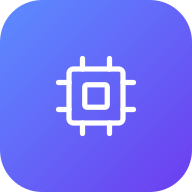
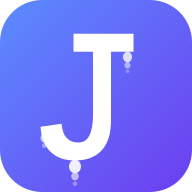
Add to Home Screen

Changed region(s): [[0.1875, 0.1562, 0.7188, 0.9688]]

diff --git a/index.html b/index.html
@@ -24,12 +24,11 @@
   html, body { margin: 0; padding: 0; height: 100%; }
   body {
     font-family: -apple-system, "SF Pro Display", "SF Pro Text", system-ui, sans-serif;
-    background: #050507;
-    background-image: radial-gradient(1200px 800px at 50% -10%, rgba(var(--accent-rgb), 0.10), transparent 60%);
-    display: flex; align-items: center; justify-content: center;
-    min-height: 100vh; overflow: hidden;
+    background: #0a0b10;
+    margin: 0; padding: 0;
+    min-height: 100vh; min-height: 100dvh; overflow: hidden;
   }
-  #root { width: 100%; height: 100vh; display: flex; align-items: center; justify-content: center; }
+  #root { width: 100%; height: 100vh; height: 100dvh; }
 
   .device[data-theme="dark"] {
     --bg: #0a0b10;
@@ -71,41 +70,19 @@
   .device { --ok: #34d399; --ok-soft: rgba(52,211,153,0.16); --warn: #fbbf24; --warn-soft: rgba(251,191,36,0.16);
             --err: #fb6f70; --err-soft: rgba(251,111,112,0.16); --info: var(--accent); --purple: #a779ff; --cyan: #3dd9c9; }
 
-  .stage { width: 100%; height: 100vh; display: flex; align-items: center; justify-content: center; }
-  .bezel {
-    position: relative; border-radius: 56px; padding: 13px;
-    background: linear-gradient(160deg, #2a2c34, #0c0d11 60%);
-    box-shadow: 0 50px 100px rgba(0,0,0,0.6), 0 0 0 1px rgba(255,255,255,0.06), inset 0 0 0 1.5px rgba(255,255,255,0.05);
-  }
   .device {
-    position: relative; width: 390px; height: 844px; border-radius: 44px; overflow: hidden;
+    position: relative; width: 100%; height: 100vh; height: 100dvh; overflow: hidden;
     background: var(--bg);
-    background-image: radial-gradient(900px 540px at 50% -8%, var(--bg-grad-1), transparent 55%),
-                      radial-gradient(700px 520px at 100% 8%, var(--bg-grad-2), transparent 50%);
     color: var(--text);
     display: flex; flex-direction: column;
     transition: background-color .4s ease, color .3s ease;
+    padding-top: env(safe-area-inset-top, 0px);
   }
-  .island {
-    position: absolute; top: 11px; left: 50%; transform: translateX(-50%);
-    width: 120px; height: 35px; border-radius: 20px; background: #000; z-index: 200;
-  }
-
-  .statusbar {
-    height: 54px; flex-shrink: 0; display: flex; align-items: center; justify-content: space-between;
-    padding: 0 30px 0 34px; position: relative; z-index: 150; pointer-events: none;
-  }
-  .statusbar .time { font-size: 15px; font-weight: 640; letter-spacing: 0.2px; color: var(--statusbar); padding-top: 8px; }
-  .statusbar .glyphs { display: flex; align-items: center; gap: 7px; padding-top: 8px; }
-  .statusbar svg path, .statusbar svg rect { fill: var(--statusbar); }
 
   .screen { flex: 1; min-height: 0; overflow-y: auto; overflow-x: hidden; position: relative; -webkit-overflow-scrolling: touch; }
   .screen::-webkit-scrollbar { width: 0; display: none; }
   .pad { padding: 0 18px; }
-  .pad-b { padding-bottom: 116px; }
-
-  .home-ind { position: absolute; bottom: 8px; left: 50%; transform: translateX(-50%); width: 134px; height: 5px;
-    border-radius: 100px; background: var(--text); opacity: 0.32; z-index: 250; pointer-events: none; }
+  .pad-b { padding-bottom: calc(100px + env(safe-area-inset-bottom, 0px)); }
 
   .glass { background: var(--surface); backdrop-filter: blur(var(--glass-blur)) saturate(160%);
     -webkit-backdrop-filter: blur(var(--glass-blur)) saturate(160%); border: 1px solid var(--border); }
@@ -368,7 +345,7 @@ function Btn({ children, onClick, variant = "primary", icon, full, size = "md", 
   const base = { display: "flex", alignItems: "center", justifyContent: "center", gap: 8, padding: pad, fontSize: fs, fontWeight: 640,
     borderRadius: 15, width: full ? "100%" : undefined, letterSpacing: -0.1, opacity: disabled ? 0.5 : 1, ...style };
   const variants = {
-    primary: { background: "var(--accent)", color: "#fff", boxShadow: "0 8px 22px rgba(var(--accent-rgb),0.34)" },
+    primary: { background: "var(--accent)", color: "#fff" },
     solid: { background: "var(--text)", color: "var(--bg)" },
     glass: { background: "var(--surface-2)", color: "var(--text)", border: "1px solid var(--border)" },
     ghost: { background: "transparent", color: "var(--text-dim)" },
@@ -520,8 +497,8 @@ function Field({ icon, label, value, onChange, type = "text", placeholder, right
 function Logo({ size = 60 }) {
   return (
     <div style={{ width: size, height: size, borderRadius: size * 0.3, background: "linear-gradient(150deg,#5b8cff,#6d3df0)", display: "flex", alignItems: "center", justifyContent: "center",
-      boxShadow: "0 14px 40px rgba(91,140,255,0.45), inset 0 0 0 1px rgba(255,255,255,0.2)", position: "relative" }}>
-      <Icon name="chip" size={size * 0.5} stroke={1.8} style={{ color: "#fff" }} />
+      position: "relative" }}>
+      <span style={{ color: "#fff", fontSize: size * 0.52, fontWeight: 800, letterSpacing: -1, lineHeight: 1 }}>J</span>
     </div>
   );
 }
@@ -1099,7 +1076,7 @@ function AgentChat({ nav }) {
           );
           if (m.from === "user") return (
             <div key={m.id} style={{ display: "flex", justifyContent: "flex-end", marginBottom: 14 }}>
-              <div style={{ maxWidth: "78%", background: "var(--accent)", color: "#fff", padding: "11px 14px", borderRadius: "16px 16px 4px 16px", fontSize: 14, lineHeight: 1.45, boxShadow: "0 4px 14px rgba(var(--accent-rgb),0.3)" }}>{m.text}</div>
+              <div style={{ maxWidth: "78%", background: "var(--accent)", color: "#fff", padding: "11px 14px", borderRadius: "16px 16px 4px 16px", fontSize: 14, lineHeight: 1.45, }}>{m.text}</div>
             </div>
           );
           return (
@@ -1132,7 +1109,7 @@ function AgentChat({ nav }) {
         <div className="glass" style={{ display: "flex", alignItems: "center", gap: 8, padding: "6px 6px 6px 16px", borderRadius: 24 }}>
           <input placeholder={`Message ${a.name}…`} style={{ flex: 1, background: "none", border: "none", outline: "none", color: "var(--text)", fontSize: 14.5, fontFamily: "inherit" }} />
           <button className="tap" style={{ width: 36, height: 36, borderRadius: 36, display: "flex", alignItems: "center", justifyContent: "center", color: "var(--text-dim)" }}><Icon name="mic" size={19} /></button>
-          <button className="tap" style={{ width: 38, height: 38, borderRadius: 38, background: "var(--accent)", color: "#fff", display: "flex", alignItems: "center", justifyContent: "center", boxShadow: "0 4px 12px rgba(var(--accent-rgb),0.4)" }}><Icon name="send" size={18} /></button>
+          <button className="tap" style={{ width: 38, height: 38, borderRadius: 38, background: "var(--accent)", color: "#fff", display: "flex", alignItems: "center", justifyContent: "center", }}><Icon name="send" size={18} /></button>
         </div>
       </div>
       <Sheet open={sheet === "controls"} onClose={() => setSheet(null)} title="Agent controls">
@@ -1761,8 +1738,8 @@ function renderOverlay(screen, nav) {
 
 function BottomNav({ tab, onTab }) {
   return (
-    <div style={{ position: "absolute", bottom: 0, left: 0, right: 0, zIndex: 100, padding: "0 12px 22px" }}>
-      <div className="glass" style={{ display: "flex", borderRadius: 26, padding: "9px 6px 8px", boxShadow: "var(--shadow)" }}>
+    <div style={{ position: "absolute", bottom: 0, left: 0, right: 0, zIndex: 100, padding: "0 12px calc(10px + env(safe-area-inset-bottom, 12px))" }}>
+      <div className="glass" style={{ display: "flex", borderRadius: 26, padding: "9px 6px 8px" }}>
         {TABS.map(t => {
           const on = tab === t.id;
           return (
@@ -1787,7 +1764,6 @@ function App() {
   const [dark, setDark] = useState(() => { try { const s = localStorage.getItem("ac_dark"); return s === null ? true : s === "1"; } catch { return true; } });
   const applyDark = (v) => { setDark(v); try { localStorage.setItem("ac_dark", v ? "1" : "0"); } catch {} };
   const deviceRef = useRef(null);
-  const [scale, setScale] = useState(1);
   const [accent, setAccent] = useState("#5b8cff");
 
   useEffect(() => { localStorage.setItem("ac_nav", JSON.stringify({ mode, tab })); }, [mode, tab]);
@@ -1799,15 +1775,6 @@ function App() {
     document.documentElement.style.setProperty("--accent", accent);
     document.documentElement.style.setProperty("--accent-rgb", hexToRgb(accent));
   }, [accent, mode, tab, stack]);
-
-  useEffect(() => {
-    const fit = () => {
-      const bw = 416, bh = 870;
-      const s = Math.min(1, (window.innerWidth - 24) / bw, (window.innerHeight - 24) / bh);
-      setScale(s);
-    };
-    fit(); window.addEventListener("resize", fit); return () => window.removeEventListener("resize", fit);
-  }, []);
 
   const theme = dark ? "dark" : "light";
   const setTheme = m => applyDark(m === "dark");
@@ -1833,29 +1800,20 @@ function App() {
   const overlay = stack.length ? stack[stack.length - 1] : null;
 
   return (
-    <div className="stage">
-      <div className="bezel" style={{ transform: `scale(${scale})` }}>
-        <div className="device" data-theme={theme} ref={deviceRef}>
-          <div className="island" />
-          <StatusBar />
-
-          {mode === "login" && <LoginScreen nav={nav} />}
-          {mode === "onboarding" && <OnboardingScreen nav={nav} />}
-          {mode === "app" && <>
-            <div style={{ position: "absolute", inset: 0, top: 54, display: stack.length ? "none" : "flex", flexDirection: "column" }}>
-              {tab === "settings" ? <Settings nav={nav} theme={theme} setTheme={setTheme} /> : <TabScreen nav={nav} />}
-            </div>
-            {overlay && (
-              <div key={stack.length} style={{ position: "absolute", inset: 0, top: 54, background: "var(--bg)", backgroundImage: "radial-gradient(900px 540px at 50% -8%, var(--bg-grad-1), transparent 55%)", display: "flex", flexDirection: "column", zIndex: 60 }}>
-                {renderOverlay(overlay.screen, nav)}
-              </div>
-            )}
-            {!stack.length && <BottomNav tab={tab} onTab={nav.go} />}
-          </>}
-
-          <div className="home-ind" />
+    <div className="device" data-theme={theme} ref={deviceRef}>
+      {mode === "login" && <LoginScreen nav={nav} />}
+      {mode === "onboarding" && <OnboardingScreen nav={nav} />}
+      {mode === "app" && <>
+        <div style={{ position: "absolute", inset: 0, display: stack.length ? "none" : "flex", flexDirection: "column", paddingTop: "env(safe-area-inset-top, 0px)" }}>
+          {tab === "settings" ? <Settings nav={nav} theme={theme} setTheme={setTheme} /> : <TabScreen nav={nav} />}
         </div>
-      </div>
+        {overlay && (
+          <div key={stack.length} style={{ position: "absolute", inset: 0, paddingTop: "env(safe-area-inset-top, 0px)", background: "var(--bg)", display: "flex", flexDirection: "column", zIndex: 60 }}>
+            {renderOverlay(overlay.screen, nav)}
+          </div>
+        )}
+        {!stack.length && <BottomNav tab={tab} onTab={nav.go} />}
+      </>}
     </div>
   );
 }
